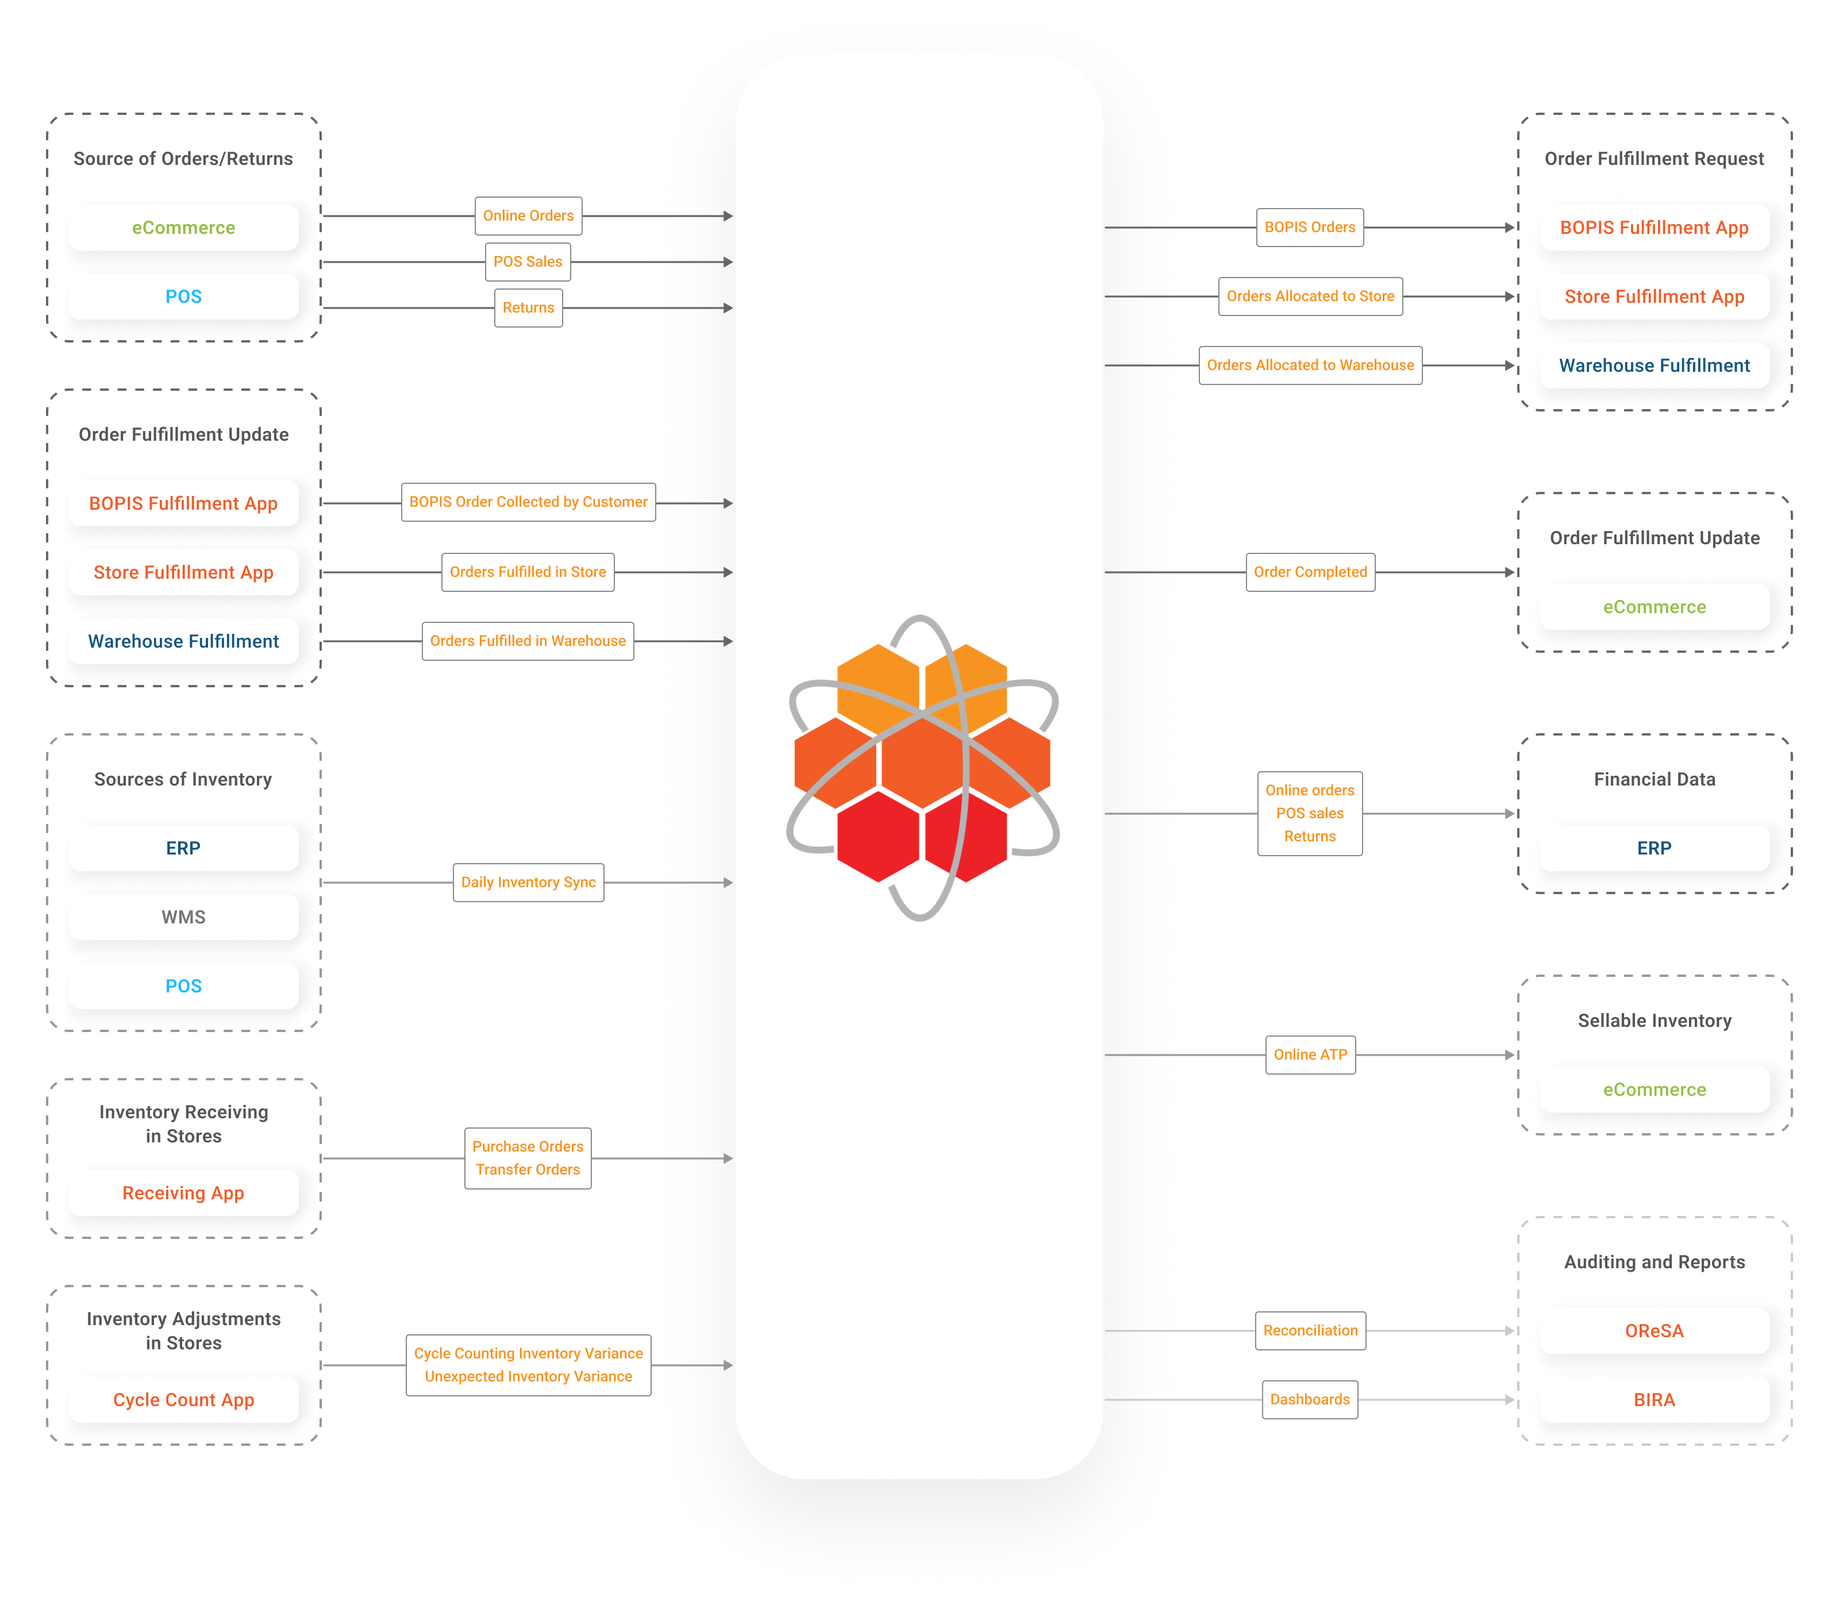
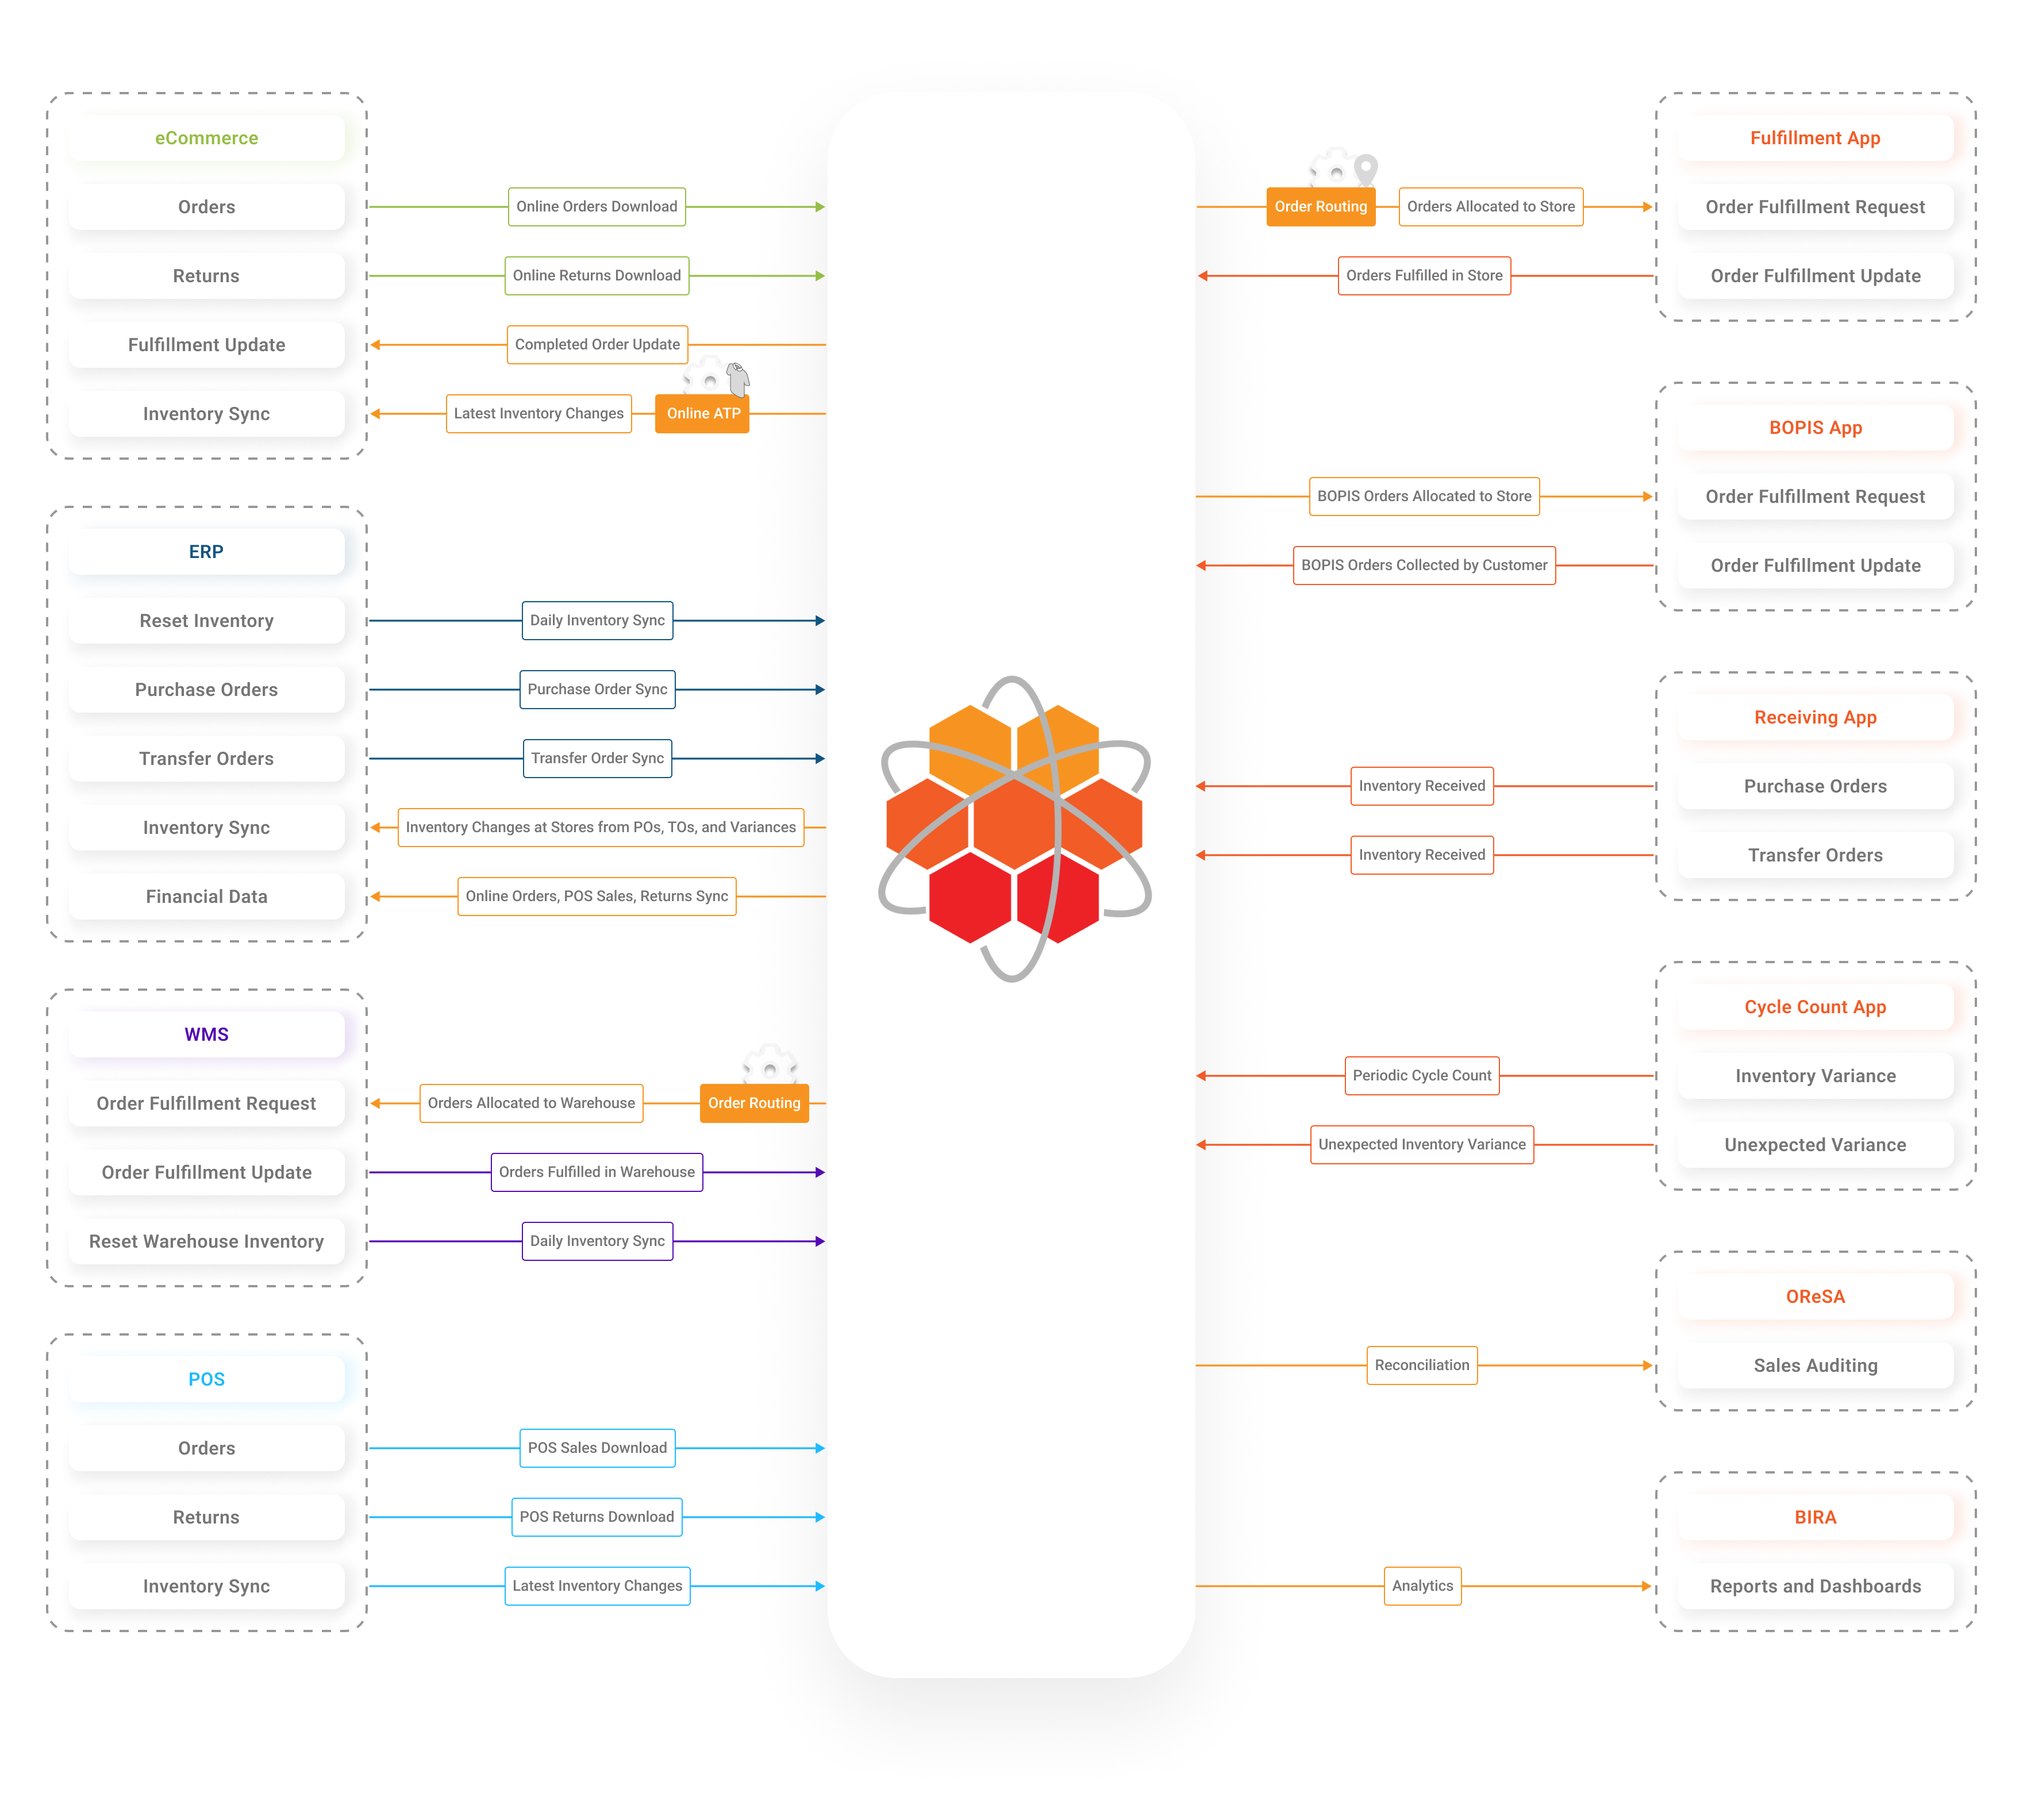
GITBOOK-39: updated images

diff --git a/documents/learn-oms/gettingstarted.md b/documents/learn-oms/gettingstarted.md
@@ -2,6 +2,8 @@
 
 HotWax Commerce is a cloud-based Omnichannel Order Management System that provides retailers with the best return on their inventory by facilitating omnichannel solutions such as Same-Day Buy Online Pick-Up In Store (BOPIS), Buy Online Return In Store, Ship From Store, and Pre-Orders to increase conversion rates and profitability. Here’s how HotWax Commerce fits into your tech ecosystem:
 
+<figure><img src=".gitbook/assets/HotWax Commerce.png" alt=""><figcaption><p>System architecture </p></figcaption></figure>
+
 HotWax Commerce integrates with multiple systems present in your tech stack, like eCommerce, ERP, WMS, and POS, creates a single sellable inventory count, syncs inventory in real time across sales channels, and efficiently routes online orders to the best fulfillment locations.
 
 Order and inventory management are at the heart of omnichannel retailing. Let’s see an overview of how HotWax Commerce supports these operations:
@@ -10,7 +12,7 @@ Order and inventory management are at the heart of omnichannel retailing. Let’
 
 #### Source of Orders and Returns
 
-<figure><img src=".gitbook/assets/Order Returns.png" alt=""><figcaption><p>Downloading orders and returns</p></figcaption></figure>
+<figure><img src=".gitbook/assets/Orders and Returns.png" alt=""><figcaption><p>Downloading orders and returns</p></figcaption></figure>
 
 HotWax Commerce downloads orders and returns from sales channels like eCommerce and POS.
 
@@ -18,7 +20,7 @@ HotWax Commerce downloads orders and returns from sales channels like eCommerce 
 
 HotWax Commerce manages key processes such as downloading online orders, routing them to optimal fulfillment locations, and ensuring timely fulfillment.
 
-<figure><img src=".gitbook/assets/Order Fulfillment.png" alt=""><figcaption><p>Order fulfillment</p></figcaption></figure>
+<figure><img src=".gitbook/assets/HotWax Fulfillment.png" alt=""><figcaption><p>Order fulfillment</p></figcaption></figure>
 
 HotWax Commerce handles various types of eCommerce orders, including standard orders, BOPIS (Buy Online, Pick Up In Store) orders, Pre-Orders, and Backorders. Here’s a brief explanation of each type:
 

diff --git a/documents/learn-oms/journeys/brokering-and-allocation/soft-allocation.md b/documents/learn-oms/journeys/brokering-and-allocation/soft-allocation.md
@@ -18,7 +18,7 @@ To check eligible shipping facilities near the customer, the latitude and longit
 
 a. If the customer inputs their postal code:
 
-* Use the [postcodeLookup](../../api/facility/postcode-lookup.md) API to convert the postal code into latitude and longitude coordinates. Learn more about how to use the postCodeLookup API and convert postal codes into latitudes and longitudes.
+* Use the [postcodeLookup](broken-reference) API to convert the postal code into latitude and longitude coordinates. Learn more about how to use the postCodeLookup API and convert postal codes into latitudes and longitudes.
 
 b. If the customer allows access to their system location:
 

diff --git a/documents/learn-oms/business-processes/orderfulfillmentbusinessprocess.md b/documents/learn-oms/business-processes/orderfulfillmentbusinessprocess.md
@@ -11,7 +11,7 @@ description: >-
 
 Approved orders are eligible for brokering in HotWax Commerce. The order routing engine brokers orders and looks for the best fulfillment location to allocate them.
 
-<figure><img src="../.gitbook/assets/Order fulfillment BP.png" alt=""><figcaption><p>Order fulfillment business process</p></figcaption></figure>
+<figure><img src="broken-reference" alt=""><figcaption><p>Order fulfillment business process</p></figcaption></figure>
 
 ## Automatically Send Fulfillment Request
 
